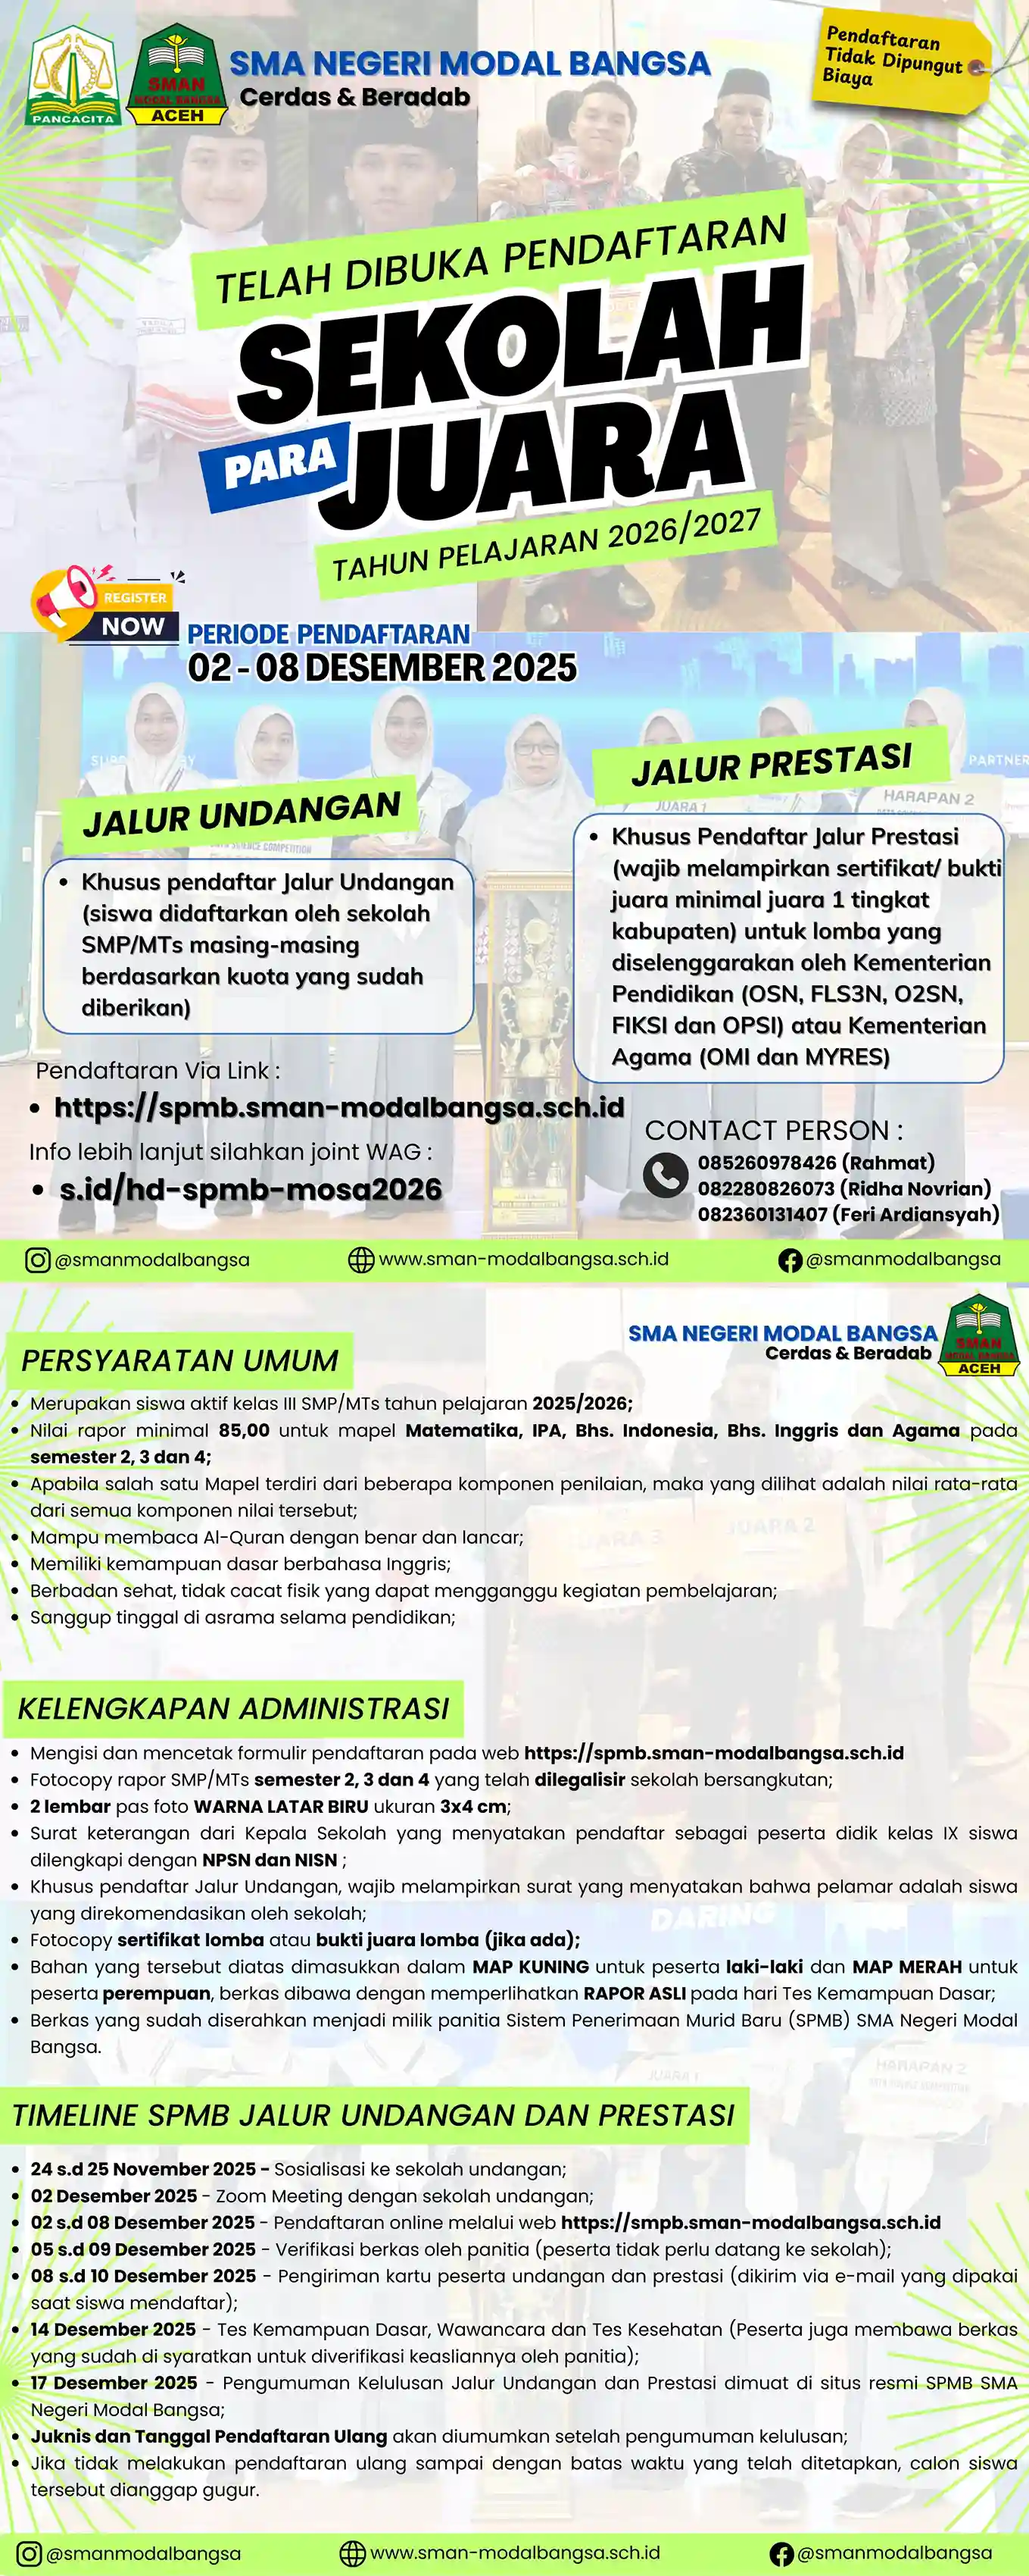
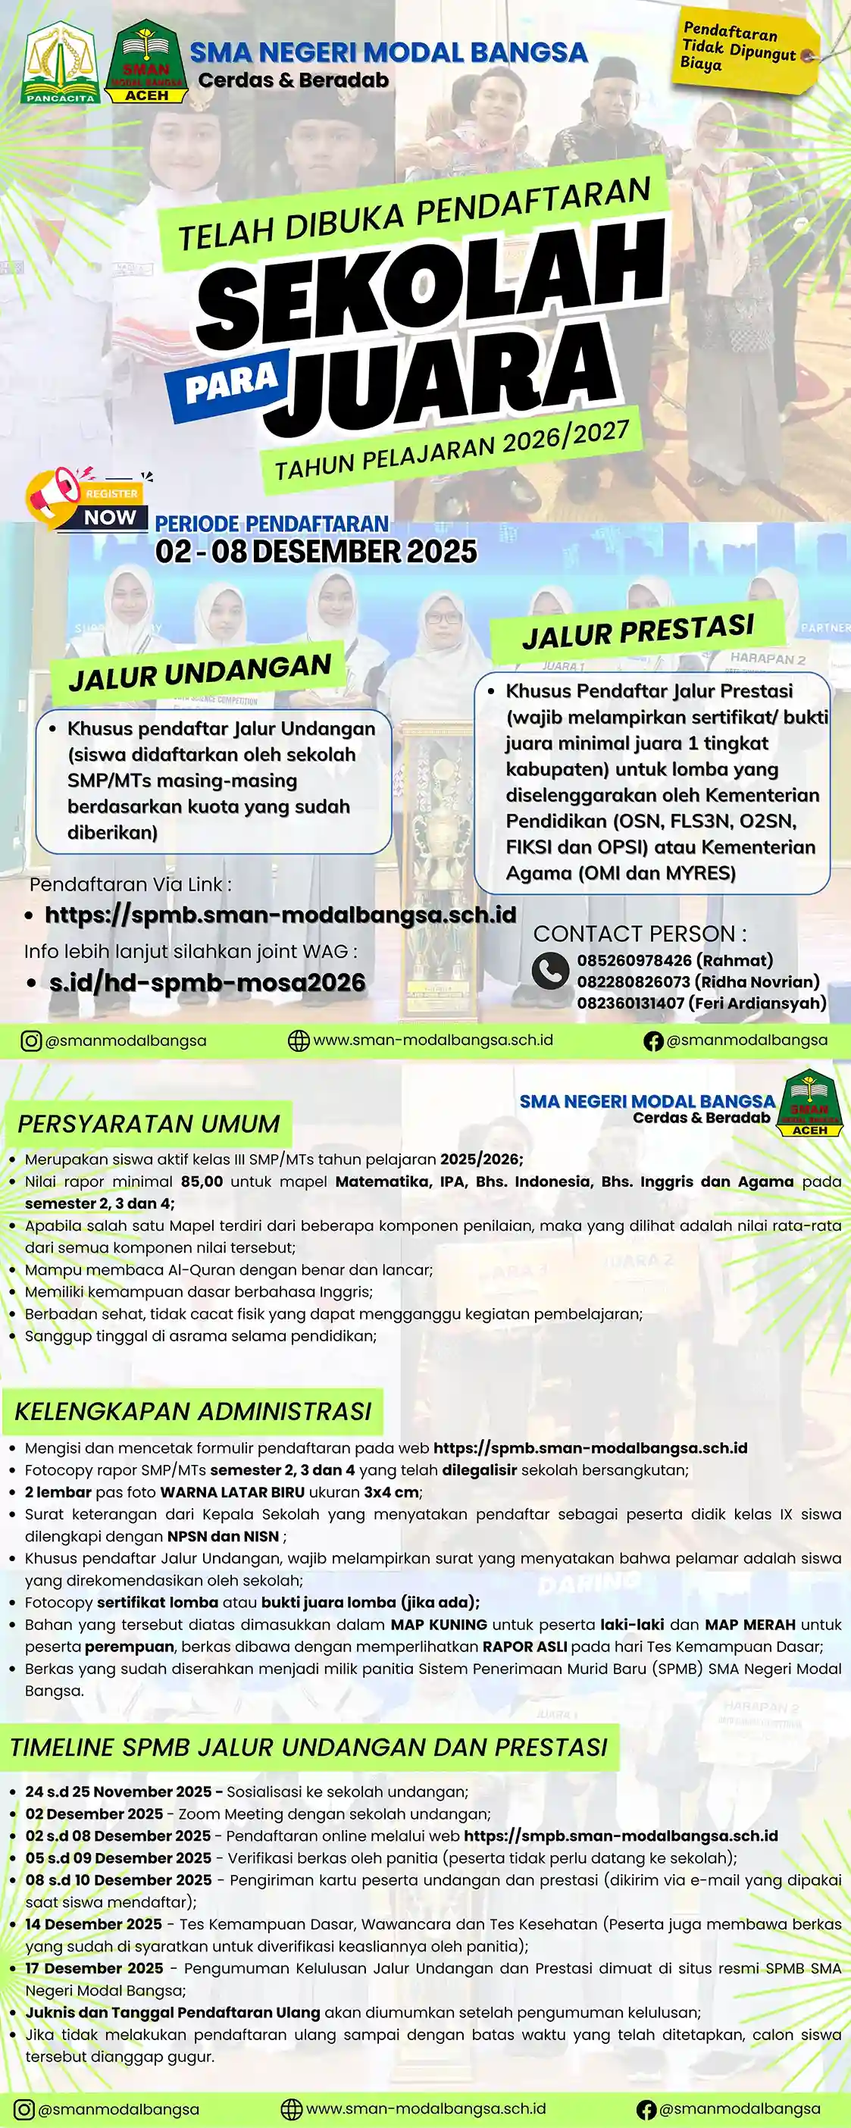
update minor deploy firebase

diff --git a/src/components/landingpage/AchievementSection.tsx b/src/components/landingpage/AchievementSection.tsx
@@ -1,7 +1,8 @@
 import React, { useState, useEffect, useRef } from 'react';
 import Container from '../ui/Container';
 import { motion, AnimatePresence, useAnimation } from 'framer-motion';
-import { ChevronLeftIcon, ChevronRightIcon, UserGroupIcon } from '@heroicons/react/24/outline';
+// import { ChevronLeftIcon, ChevronRightIcon, UserGroupIcon } from '@heroicons/react/24/outline';
+import { ChevronLeftIcon, ChevronRightIcon} from '@heroicons/react/24/outline';
 
 interface Achievement {
   id: number;
@@ -63,32 +64,32 @@ const achievements: Achievement[] = [
   }
 ];
 
-const stats = [
-  {
-    icon: <UserGroupIcon className="w-8 h-8" />,
-    label: "Tingkat Kab/Kota",
-    value: "213 Siswa",
-    color: "bg-green-100 text-green-600"
-  },
-  {
-    icon: <UserGroupIcon className="w-8 h-8" />,
-    label: "Tingkat Provinsi",
-    value: "110 Siswa",
-    color: "bg-emerald-100 text-emerald-600"
-  },
-  {
-    icon: <UserGroupIcon className="w-8 h-8" />,
-    label: "Tingkat Nasional",
-    value: "56 Siswa",
-    color: "bg-blue-100 text-blue-600"
-  },
-  {
-    icon: <UserGroupIcon className="w-8 h-8" />,
-    label: "Tingkat Internasional",
-    value: "4 Siswa",
-    color: "bg-orange-100 text-orange-600"
-  }
-];
+// const stats = [
+//   {
+//     icon: <UserGroupIcon className="w-8 h-8" />,
+//     label: "Tingkat Kab/Kota",
+//     value: "213 Siswa",
+//     color: "bg-green-100 text-green-600"
+//   },
+//   {
+//     icon: <UserGroupIcon className="w-8 h-8" />,
+//     label: "Tingkat Provinsi",
+//     value: "110 Siswa",
+//     color: "bg-emerald-100 text-emerald-600"
+//   },
+//   {
+//     icon: <UserGroupIcon className="w-8 h-8" />,
+//     label: "Tingkat Nasional",
+//     value: "56 Siswa",
+//     color: "bg-blue-100 text-blue-600"
+//   },
+//   {
+//     icon: <UserGroupIcon className="w-8 h-8" />,
+//     label: "Tingkat Internasional",
+//     value: "4 Siswa",
+//     color: "bg-orange-100 text-orange-600"
+//   }
+// ];
 
 const AchievementSection: React.FC = () => {
   const [currentIndex, setCurrentIndex] = useState(0);
@@ -153,7 +154,7 @@ const AchievementSection: React.FC = () => {
         </motion.div>
 
         {/* Stats Grid */}
-        <motion.div
+        {/* <motion.div
           initial={{ opacity: 0, y: 20 }}
           whileInView={{ opacity: 1, y: 0 }}
           viewport={{ once: true }}
@@ -180,7 +181,7 @@ const AchievementSection: React.FC = () => {
               </div>
             </motion.div>
           ))}
-        </motion.div>
+        </motion.div> */}
 
         {/* Achievement Carousel */}
         <div className="grid lg:grid-cols-2 gap-8 lg:gap-12 items-center">

diff --git a/src/components/landingpage/AboutSection.tsx b/src/components/landingpage/AboutSection.tsx
@@ -36,8 +36,6 @@ const AboutSection: React.FC = () => {
 >
   {/* Card diperbesar */}
   <div className="bg-white border border-gray-200 rounded-2xl p-8 md:p-10 w-full">
-    <p className="text-blue-600 font-semibold text-sm mb-3">Tentang Sekolah</p>
-
     {/* Logo + Judul (lebih besar) */}
     <div className="flex items-center gap-5 mb-4">
       <img
@@ -77,17 +75,17 @@ const AboutSection: React.FC = () => {
     {/* Stats lebih besar & rapi */}
     <div className="mt-8 grid grid-cols-3 gap-6 text-center">
       <div>
-        <div className="text-xl sm:text-2xl font-bold text-gray-900">1.200+</div>
+        <div className="text-xl sm:text-2xl font-bold text-gray-900">8000+</div>
         <div className="text-sm text-gray-500">Siswa Terdaftar</div>
       </div>
 
       <div>
-        <div className="text-xl sm:text-2xl font-bold text-gray-900">85</div>
+        <div className="text-xl sm:text-2xl font-bold text-gray-900">200+</div>
         <div className="text-sm text-gray-500">Prestasi Nasional</div>
       </div>
 
       <div>
-        <div className="text-xl sm:text-2xl font-bold text-gray-900">10</div>
+        <div className="text-xl sm:text-2xl font-bold text-gray-900">31</div>
         <div className="text-sm text-gray-500">Tahun Berdiri</div>
       </div>
     </div>

diff --git a/src/pages/LandingPage.tsx b/src/pages/LandingPage.tsx
@@ -5,7 +5,7 @@ import { db } from '../firebase/config';
 import HeroSection from '../components/landingpage/HeroSection';
 import AboutSection from '../components/landingpage/AboutSection';
 import AchievementSection from '../components/landingpage/AchievementSection';
-// import FeaturesSection from '../components/landingpage/FeaturesSection';
+import FeaturesSection from '../components/landingpage/FeaturesSection';
 // import TestimonialsSection from '../components/landingpage/TestimonialsSection';
 import CallToActionSection from '../components/landingpage/CallToActionSection';
 import FAQSection from '../components/landingpage/FAQSection';
@@ -52,7 +52,7 @@ const LandingPage: React.FC = () => {
       <HeroSection settings={settings} />
       <AboutSection />
       <AchievementSection />
-      {/* <FeaturesSection /> */}
+      <FeaturesSection />
       {/* <TestimonialsSection /> */}
       <FAQSection />
       <CallToActionSection />

diff --git a/src/components/landingpage/CallToActionSection.tsx b/src/components/landingpage/CallToActionSection.tsx
@@ -14,12 +14,12 @@ const CallToActionSection: React.FC = () => {
     },
     {
       icon: <UserGroupIcon className="w-6 h-6 sm:w-8 sm:h-8" />,
-      value: "1500+",
+      value: "1000+",
       label: "Alumni Sukses"
     },
     {
       icon: <TrophyIcon className="w-6 h-6 sm:w-8 sm:h-8" />,
-      value: "500+",
+      value: "1000+",
       label: "Prestasi"
     }
   ];
